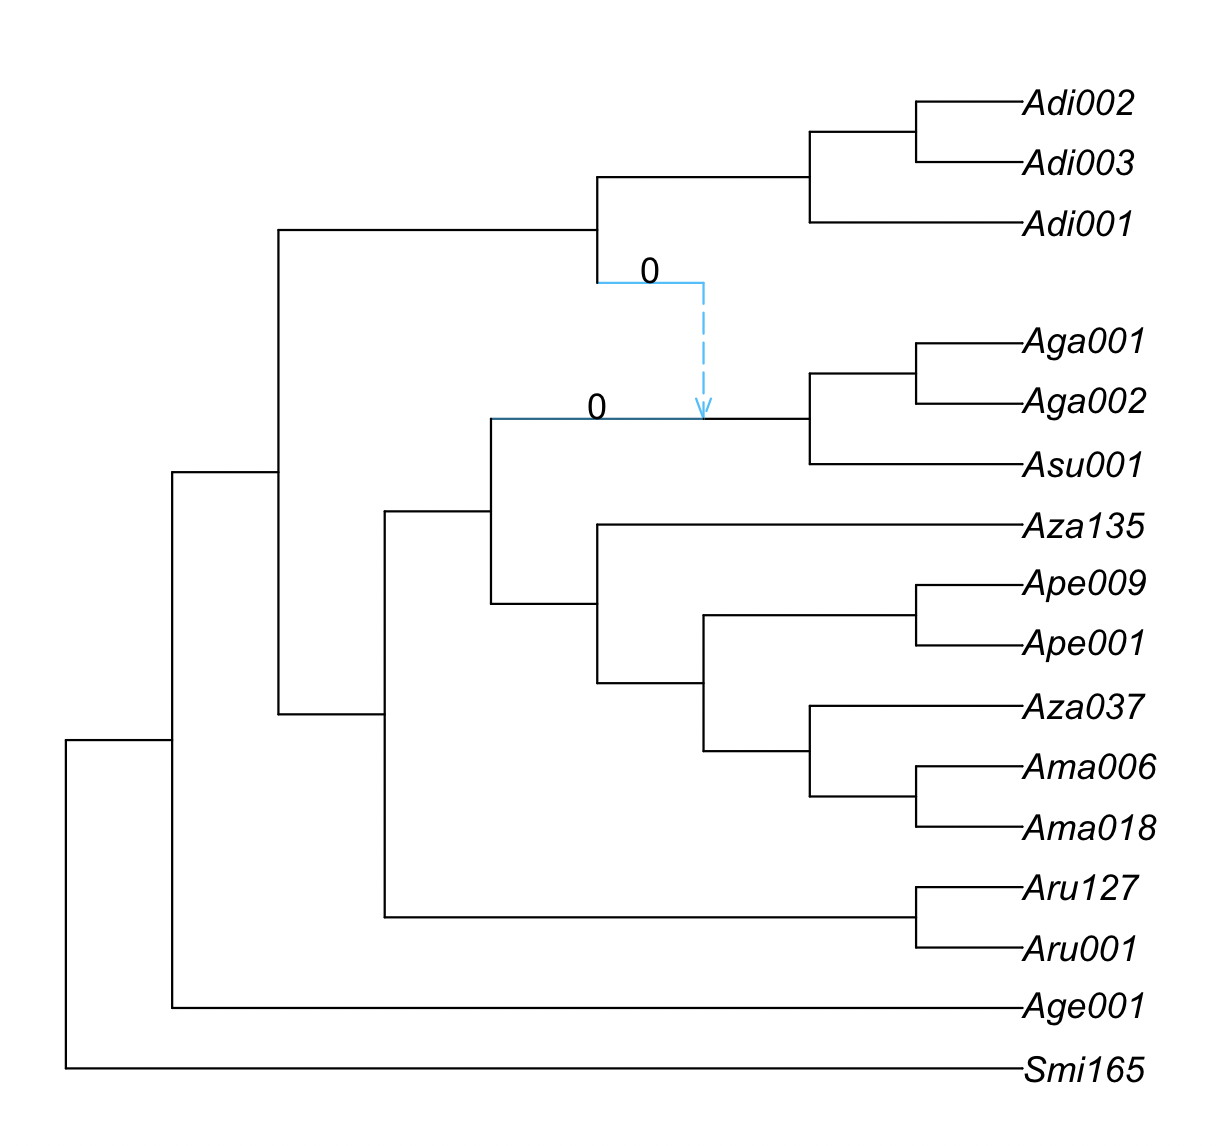
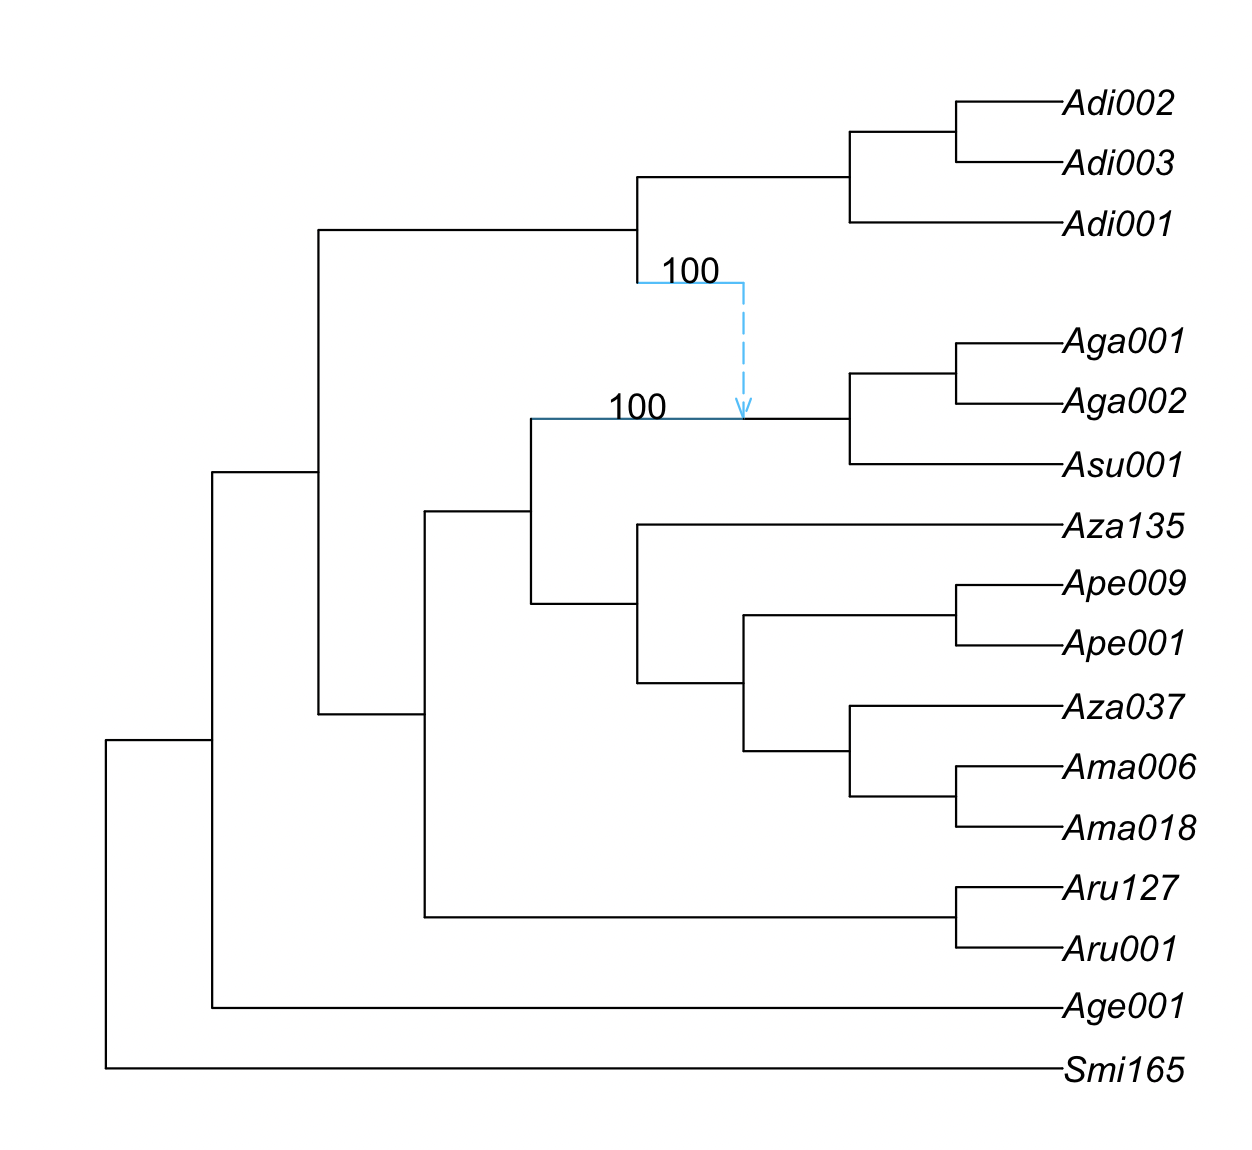
modified bootstrap

diff --git a/lecture-notes/lecture4.md b/lecture-notes/lecture4.md
@@ -66,12 +66,13 @@ optimization of topology, BL and inheritance probabilities in SNaQ.jl using:
  max number of failed proposals = 75, liktolAbs = 0.0001.
 rootname for files: net1_snaq
 BEGIN: 1 runs on starting tree (Adi003,Adi002,(Adi001,((Smi165,Age001):0.11282763783172885,((Aru001,Aru127):1.8895892722315206,(((((Ama018,Ama006):0.635979116918197,Aza037):0.2064967739309278,(Ape001,Ape009):0.7567729870351637):0.17709162771363504,Aza135):1.3242277867359862,((Aga002,Aga001):1.1662225201998988,Asu001):1.33643060185584):0.10642736789559729):0.45657761568828575):2.424105745425032):0.1638513742450063);
-2025-05-20 15:51:6.718
-seed: 456 for run 1, 2025-05-20 15:51:8.268
+2026-10-05 11:54:38.741
+seed: 456 for run 1, 2026-10-05 11:54:40.551
 best network and networks with different hybrid/gene flow directions printed to .networks file
 
 MaxNet is ((Adi001,(((Smi165,Age001):0.10909139515055954,((Aru001,Aru127):1.783553809432207,(((((Ama018,Ama006):0.6686980253651718,Aza037):0.19099507776876928,(Ape001,Ape009):0.754921262227867):0.15053133922303902,Aza135):1.1427622517130929,((Asu001,(Aga002,Aga001):0.9081531659227717):0.48236561520817717)#H17:2.0594381934607306::0.8210853726908922):0.18471450412843127):0.5158573560102714):0.22659449745358853,#H17:0.697544251960922::0.17891462730910784):2.1586763301439107):0.1426954054706382,Adi003,Adi002); 
-with -loglik 815.1786591571492
+with -loglik 815.1786591571492 
+from run number 1
 HybridNetwork, Semidirected Network
 32 edges
 32 nodes: 16 tips, 1 hybrid nodes, 15 internal tree nodes.
@@ -88,14 +89,16 @@ point to estimate the best network at `h`.
 
 ### 4. Overview of the output files
 
-The estimated network is in the `net1_snaq.out` file which also has the running time: 2082.5 seconds (~35 minutes) in my computer:
+The estimated network is in the `net1_snaq.out` file which also has the running time: 1976.69 seconds (~32 minutes) in my computer:
 
 ```
 % less analysis/net1_snaq.out 
 
-((Adi001,(((Smi165,Age001):0.10909139515055954,((Aru001,Aru127):1.783553809432207,(((((Ama018,Ama006):0.6686980253651718,Aza037):0.19099507776876928,(Ape001,Ape009):0.754921262227867):0.15053133922303902,Aza135):1.1427622517130929,((Asu001,(Aga002,Aga001):0.9081531659227717):0.48236561520817717)#H17:2.0594381934607306::0.8210853726908922):0.18471450412843127):0.5158573560102714):0.22659449745358853,#H17:0.697544251960922::0.17891462730910784):2.1586763301439107):0.1426954054706382,Adi003,Adi002); -Ploglik = 815.1786591571492
- Dendroscope: ((Adi001,(((Smi165,Age001):0.10909139515055954,((Aru001,Aru127):1.783553809432207,(((((Ama018,Ama006):0.6686980253651718,Aza037):0.19099507776876928,(Ape001,Ape009):0.754921262227867):0.15053133922303902,Aza135):1.1427622517130929,((Asu001,(Aga002,Aga001):0.9081531659227717):0.48236561520817717)#H17:2.0594381934607306):0.18471450412843127):0.5158573560102714):0.22659449745358853,#H17:0.697544251960922):2.1586763301439107):0.1426954054706382,Adi003,Adi002);
- Elapsed time: 2082.5 seconds, 1 attempted runs
+((Adi001,(((Smi165,Age001):0.10909139515055954,((Aru001,Aru127):1.78355380943220
+7,(((((Ama018,Ama006):0.6686980253651718,Aza037):0.19099507776876928,(Ape001,Ape
+009):0.754921262227867):0.15053133922303902,Aza135):1.1427622517130929,((Asu001,(Aga002,Aga001):0.9081531659227717):0.48236561520817717)#H17:2.0594381934607306::0.8210853726908922):0.18471450412843127):0.5158573560102714):0.22659449745358853,#H17:0.697544251960922::0.17891462730910784):2.1586763301439107):0.1426954054706382,Adi003,Adi002); -Ploglik = 815.1786591571492
+Dendroscope: ((Adi001,(((Smi165,Age001):0.10909139515055954,((Aru001,Aru127):1.783553809432207,(((((Ama018,Ama006):0.6686980253651718,Aza037):0.19099507776876928,(Ape001,Ape009):0.754921262227867):0.15053133922303902,Aza135):1.1427622517130929,((Asu001,(Aga002,Aga001):0.9081531659227717):0.48236561520817717)#H17:2.0594381934607306):0.18471450412843127):0.5158573560102714):0.22659449745358853,#H17:0.697544251960922):2.1586763301439107):0.1426954054706382,Adi003,Adi002);
+Elapsed time: 1976.69 seconds, 1 attempted runs
 -------
 List of estimated networks for all runs (sorted by log-pseudolik; the smaller, the better):
  ((Adi001,(((Smi165,Age001):0.10909139515055954,((Aru001,Aru127):1.783553809432207,(((((Ama018,Ama006):0.6686980253651718,Aza037):0.19099507776876928,(Ape001,Ape009):0.754921262227867):0.15053133922303902,Aza135):1.1427622517130929,((Asu001,(Aga002,Aga001):0.9081531659227717):0.48236561520817717)#H17:2.0594381934607306::0.8210853726908922):0.18471450412843127):0.5158573560102714):0.22659449745358853,#H17:0.697544251960922::0.17891462730910784):2.1586763301439107):0.1426954054706382,Adi003,Adi002);, with -loglik 815.1786591571492
@@ -150,6 +153,8 @@ SNaQ can infer hybridizations with extinct or unsampled taxa (ghost lineages). T
 
 # Bootstrapping
 
+This analysis takes too long for the workshop, but below are the instructions to run bootstrap analysis with SNaQ. For the workshop, people can skip ahead to the bootstrap summary section.
+
 You need as input:
 
 - data from sequence alignment that capture uncertainty:
@@ -162,7 +167,11 @@ You need as input:
 We will focus on the case of CF credibility intervals:
 
 ```julia
-using CSV, DataFrames
+using Distributed
+addprocs(6)
+
+@everywhere using PhyloNetworks, SNaQ
+@everywhere using CSV, DataFrames
 buckyDat = CSV.read("nexus.CFs.csv", DataFrame) # names like: CF12_34, CF12_34_lo etc.
 ```
 
@@ -182,20 +191,28 @@ buckyDat2 = rename(buckyDat, ["taxon1", "taxon2", "taxon3", "taxon4",
  "ngenes"]) # rename columns
 ```
 
-## 2. Running bootstrap
+And if the Julia session had been closed, you can read again the starting topologies:
+
 ```julia
-bootnet = bootsnaq(tre, buckyDat2, hmax=1, nrep=10, runs=1,
-                   filename="bootsnaq1", ftolRel=1.0e-4, ftolAbs=1.0e-4,liktolAbs = 1.0e-4)
+tre = readnewick("nexus.QMC.tre")
+net1 = readnewick("net1_snaq.out")
+rootatnode!(net1, "Smi165")
+```
+
+## 2. Running bootstrap
+
+```julia
+bootnet = bootsnaq(tre, buckyDat2, hmax=1, nrep=30, runs=10,
+                   filename="bootsnaq1", seed=456, otherNet=net1, prcnet=0.3)
 ```
 
 The options we are using are:
 - `hmax=1`: maximum one hybridization event
-- `nrep=10`: number of bootstrap replicates; you want to do at least 30 for your real analysis
-- `runs=1`: number of runs for the optimization; set to 1 to make the run fast, but you want to do at least `runs=10` (which is the default) for your real analysis
+- `nrep=30`: number of bootstrap replicates
+- `runs=10`: number of runs for the optimization
 - `filename="bootsnaq1"`: rootname for the output files
 - `seed=456`: random seed to replicate the analysis
-- `ftolRel=1.0e-4, ftolAbs=1.0e-4,liktolAbs = 1.0e-4`: optimization tolerances chosen so that the run is fast. For your analyses, you do not need to specify these quantities and simply use the defaults 
-
+- `otherNet=net1` and `prcnet=0.3` specify another starting topology (`net1`) with 30% of the runs starting there
 
 ## 3. Bootstrap summary
 
@@ -297,71 +314,59 @@ plot(net1, edgelabel=BSe[!,[:edge,:BS_hybrid_edge]]);
 
 <div style="text-align:center"><img src="../images/net1-bse.png" width="750"/></div>
 
-In this case, there are 0% of bootstrap networks that have the major hybrid edge and 0% bootstrap networks that have the minor hybrid edge. Recall that we only ran 10 bootstrap replicates with 1 run each, so the runs have likely not converged in this case.
+In this case, there are 100% of bootstrap networks that have the major hybrid edge and 100% bootstrap networks that have the minor hybrid edge. 
 
-What do the remaining bootstrap networks have?
+If the percentage was not 100%, we can check what do the remaining bootstrap networks look like with `BSe`.
 
 ```julia
 julia> BSe
-16×8 DataFrame
- Row │ edge     hybrid_clade  hybrid   sister_clade  sister  BS_hybrid_edge  BS_major  BS_minor 
-     │ Int64?   String        Int64?   String        Int64?  Float64         Float64   Float64  
-─────┼──────────────────────────────────────────────────────────────────────────────────────────
-   1 │      24  H17                15  c_minus10        -10             0.0       0.0       0.0
-   2 │      28  H17                15  c_minus3          -3             0.0       0.0       0.0
-   3 │ missing  Ape001              9  Ape009            10            30.0      30.0       0.0
-   4 │ missing  Ape001              9  H17              -16            30.0       0.0      30.0
-   5 │ missing  c_34          missing  Aza135            11            20.0      20.0       0.0
-   6 │ missing  c_34          missing  Ape001             9            20.0       0.0      20.0
-   7 │ missing  Smi165              2  Age001             3            10.0      10.0       0.0
-   8 │ missing  Smi165              2  Ama006             7            10.0       0.0      10.0
-   9 │ missing  Adi002             17  Adi003            16            10.0      10.0       0.0
-  10 │ missing  Adi002             17  Aru001             4            10.0       0.0      10.0
-  11 │ missing  c_35          missing  c_minus8          -8            10.0      10.0       0.0
-  12 │ missing  c_35          missing  H17              -16            10.0       0.0      10.0
-  13 │ missing  c_minus2           -2  Adi001             1            10.0      10.0       0.0
-  14 │ missing  c_minus2           -2  Ama018             6            10.0       0.0      10.0
-  15 │ missing  Aru001              4  Aru127             5            10.0      10.0       0.0
-  16 │ missing  Aru001              4  Age001             3            10.0       0.0      10.0
+2×8 DataFrame
+ Row │ edge    hybrid_clade  hybrid  sister_clade  sister  BS_hybrid_edge  BS_major  BS_minor 
+     │ Int64?  String        Int64?  String        Int64?  Float64         Float64   Float64  
+─────┼────────────────────────────────────────────────────────────────────────────────────────
+   1 │     24  H17               15  c_minus10        -10           100.0     100.0       0.0
+   2 │     28  H17               15  c_minus3          -3           100.0       0.0     100.0
 ```
 
 We can understand the meaning of each column with `? hybridclade_support` in julia.
-We can see, for example, that in 30% of the bootstrap networks there is a hybrid edge 
-from `Ape001` to `Ape009`. Because `BS_major` is also 30, we conclude that this edge appears as the major hybrid edge in 30% of the bootstrap networks. We note that this edge does not appear in the estimated network (`net1`) since the column `edge` is `missing`.
 
-Sometimes, there is not a taxon name, but a clade, like `c_minus8`. The information of which clade this represents can be found in the `BSc` data frame:
+Sometimes, there is not a taxon name, but a clade, like `c_minus10`. The information of which clade this represents can be found in the `BSc` data frame:
 
 ```julia
 julia> BSc
-16×18 DataFrame
- Row │ taxa    Adi001  Smi165  Age001  Aru001  Aru127  c_minus8  Ama018  Ama006  Ape001  Ape009  Aza135  H17    c ⋯
-     │ String  Bool    Bool    Bool    Bool    Bool    Bool      Bool    Bool    Bool    Bool    Bool    Bool   B ⋯
-─────┼─────────────────────────────────────────────────────────────────────────────────────────────────────────────
-   1 │ Adi001    true   false   false   false   false     false   false   false   false   false   false  false    ⋯
-   2 │ Smi165   false    true   false   false   false     false   false   false   false   false   false  false
-   3 │ Age001   false   false    true   false   false     false   false   false   false   false   false  false
-   4 │ Aru001   false   false   false    true   false      true   false   false   false   false   false  false
-   5 │ Aru127   false   false   false   false    true      true   false   false   false   false   false  false    ⋯
-   6 │ Ama018   false   false   false   false   false     false    true   false   false   false   false  false
-   7 │ Ama006   false   false   false   false   false     false   false    true   false   false   false  false
-   8 │ Aza037   false   false   false   false   false     false   false   false   false   false   false  false
-   9 │ Ape001   false   false   false   false   false     false   false   false    true   false   false  false    ⋯
-  10 │ Ape009   false   false   false   false   false     false   false   false   false    true   false  false
-  11 │ Aza135   false   false   false   false   false     false   false   false   false   false    true  false
-  12 │ Asu001   false   false   false   false   false     false   false   false   false   false   false   true
-  13 │ Aga002   false   false   false   false   false     false   false   false   false   false   false   true    ⋯
-  14 │ Aga001   false   false   false   false   false     false   false   false   false   false   false   true
-  15 │ Adi003   false   false   false   false   false     false   false   false   false   false   false  false
-  16 │ Adi002   false   false   false   false   false     false   false   false   false   false   false  false
+16×4 DataFrame
+ Row │ taxa    c_minus10  H17    c_minus3 
+     │ String  Bool       Bool   Bool     
+─────┼────────────────────────────────────
+   1 │ Adi001      false  false      true
+   2 │ Smi165      false  false     false
+   3 │ Age001      false  false     false
+   4 │ Aru001      false  false     false
+   5 │ Aru127      false  false     false
+   6 │ Ama018       true  false     false
+   7 │ Ama006       true  false     false
+   8 │ Aza037       true  false     false
+   9 │ Ape001       true  false     false
+  10 │ Ape009       true  false     false
+  11 │ Aza135       true  false     false
+  12 │ Asu001      false   true     false
+  13 │ Aga002      false   true     false
+  14 │ Aga001      false   true     false
+  15 │ Adi003      false  false      true
+  16 │ Adi002      false  false      true
 ```
 
 Or specifically:
 
 ```
-julia> BSc[!,:taxa][BSc[!,:c_minus8]]
-2-element Vector{String}:
- "Aru001"
- "Aru127"
+julia> BSc[!,:taxa][BSc[!,:c_minus10]]
+6-element Vector{String}:
+ "Ama018"
+ "Ama006"
+ "Aza037"
+ "Ape001"
+ "Ape009"
+ "Aza135"
 ```
 
 We can look at the estimated network again to find this clade:
@@ -383,7 +388,7 @@ We can also quantity the proportion of the times that the same hybridization eve
 ```julia
 plot(net1, nodelabel=BSn[!,[:hybridnode,:BS_hybrid_samesisters]]);
 ```
-which in this case (because we did not do enough replicates or enough number of runs) is zero:
+which in this case it is 100%:
 
 <div style="text-align:center"><img src="../images/net1-bsn.png" width="750"/></div>
 
@@ -393,5 +398,5 @@ We can also plot the bootstrap support for hybrid clades, regardless of their si
 plot(net1, edgelabel=BSn[BSn[!,:BS_hybrid].>0, [:edge,:BS_hybrid]]);
 ```
 
-<div style="text-align:center"><img src="../images/net1-bsn2.png" width="750"/></div>
+<div style="text-align:center"><img src="../images/net1-bsn.png" width="750"/></div>
 
